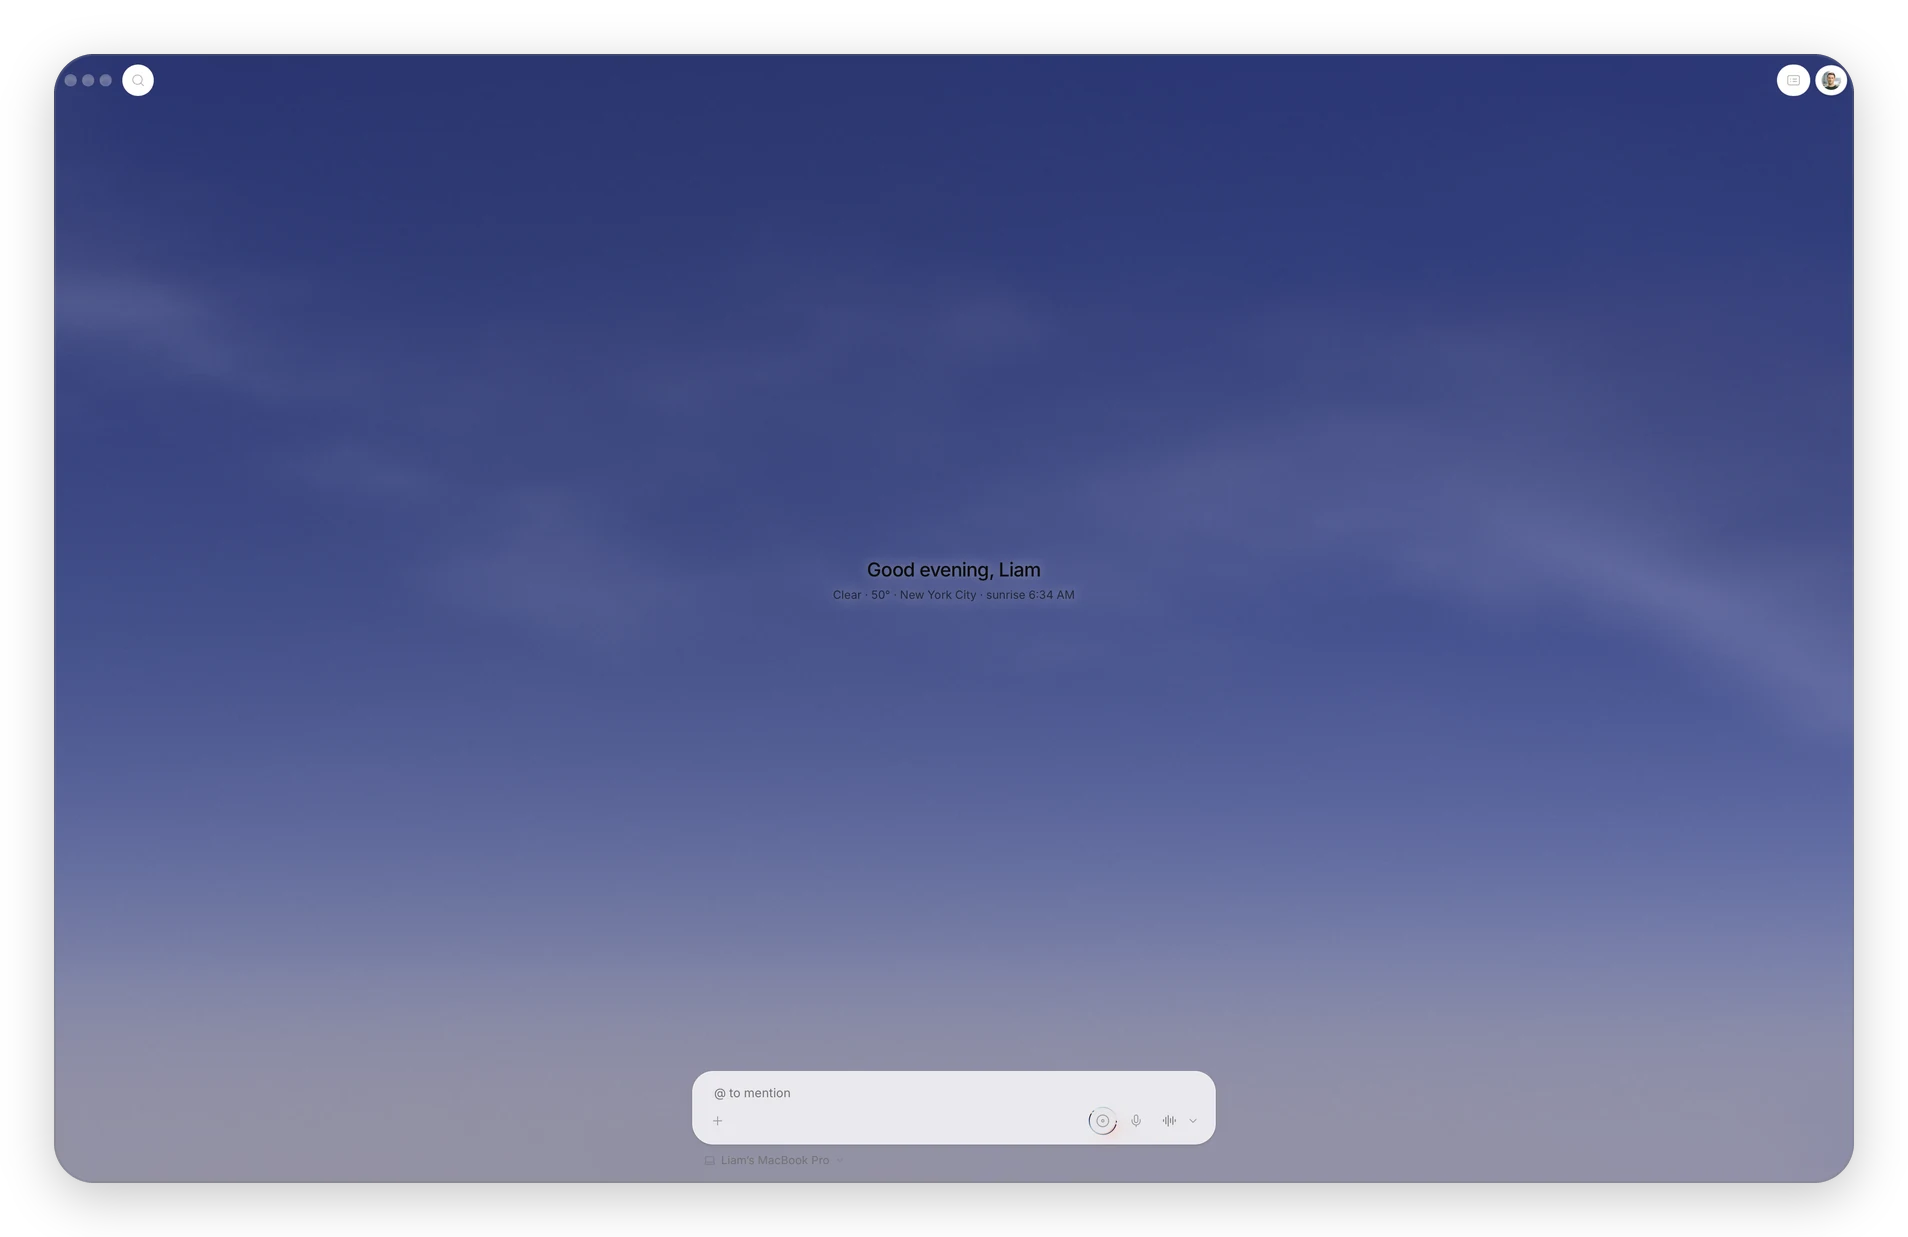
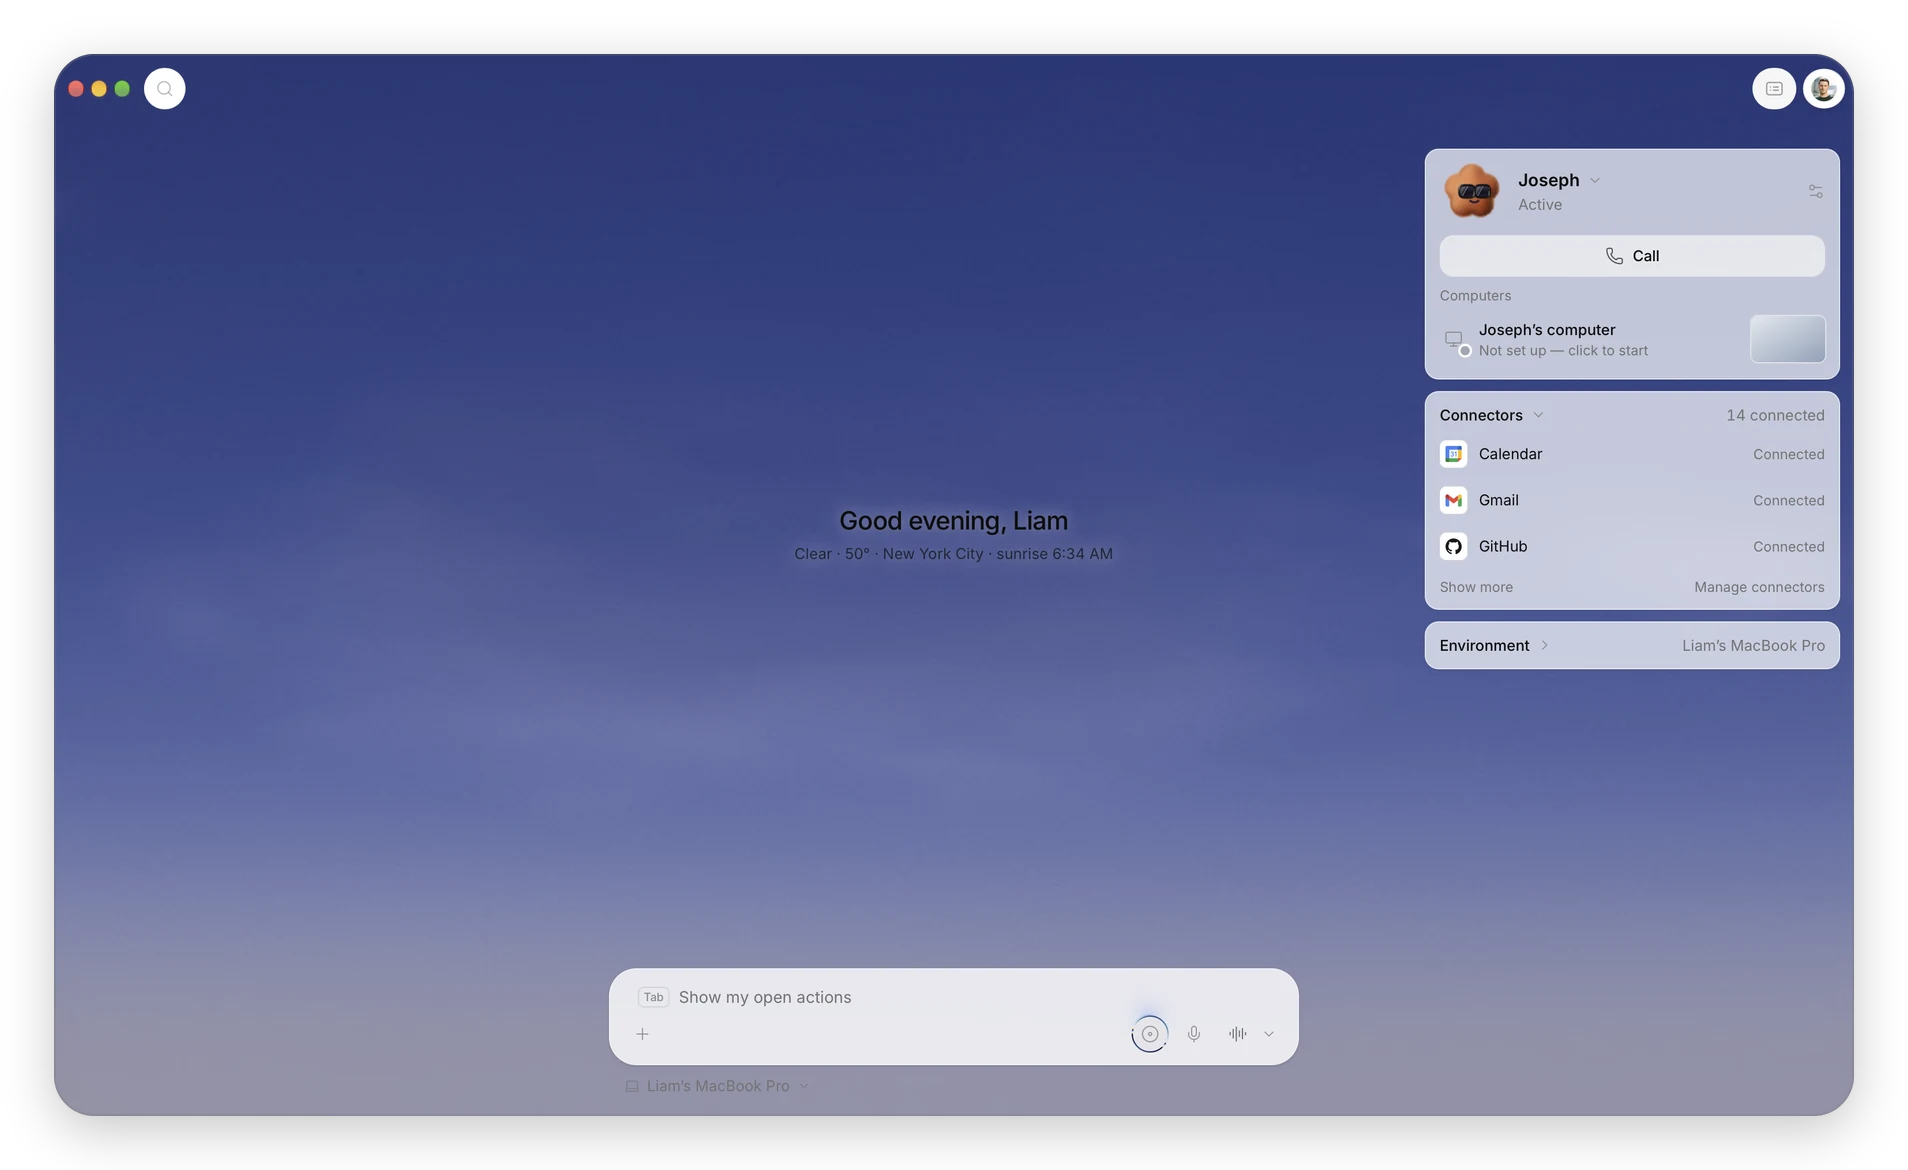
README: side panel open, and the agent's controls
The hero shot is retaken with the side panel open, so it shows the always-on agent,
its own computer and the connected apps. A new "Text it, Slack it, share it" section
shows the agent's phone, Slack and people settings, with private numbers blurred.

diff --git a/README.md b/README.md
@@ -10,7 +10,7 @@
 
 <br />
 
-![The Mac app on a fresh workspace: a greeting, the local weather and one box to talk to the agent](.github/readme/desktop-home.webp)
+![The Mac app on a fresh workspace: a greeting and one box to talk to the agent, with the side panel showing the always-on agent, its own computer and the connected apps](.github/readme/desktop-home.webp)
 
 <div align="center"><sub>Every screenshot here is a made-up demo workspace. You can load it into your own install: see <a href="#getting-started">Getting started</a>.</sub></div>
 
@@ -133,6 +133,13 @@ the background, and reaches you wherever you are.
 
 - **It can run a business by text.** For an owner on the go, it sends quotes, books
   jobs and even changes the company's website, each one waiting for a "yes" by text.
+
+## Text it, Slack it, share it
+
+Your agent has a phone number you can text, joins your Slack, and you decide who else
+can reach it: add the people you trust, or let them ask for access with a code.
+
+![The agent's settings: a number to text it, a one-time code to link Slack, and the list of people who can reach it, with private numbers blurred](.github/readme/agent-controls.webp)
 
 ## It shows you, right in the chat
 
